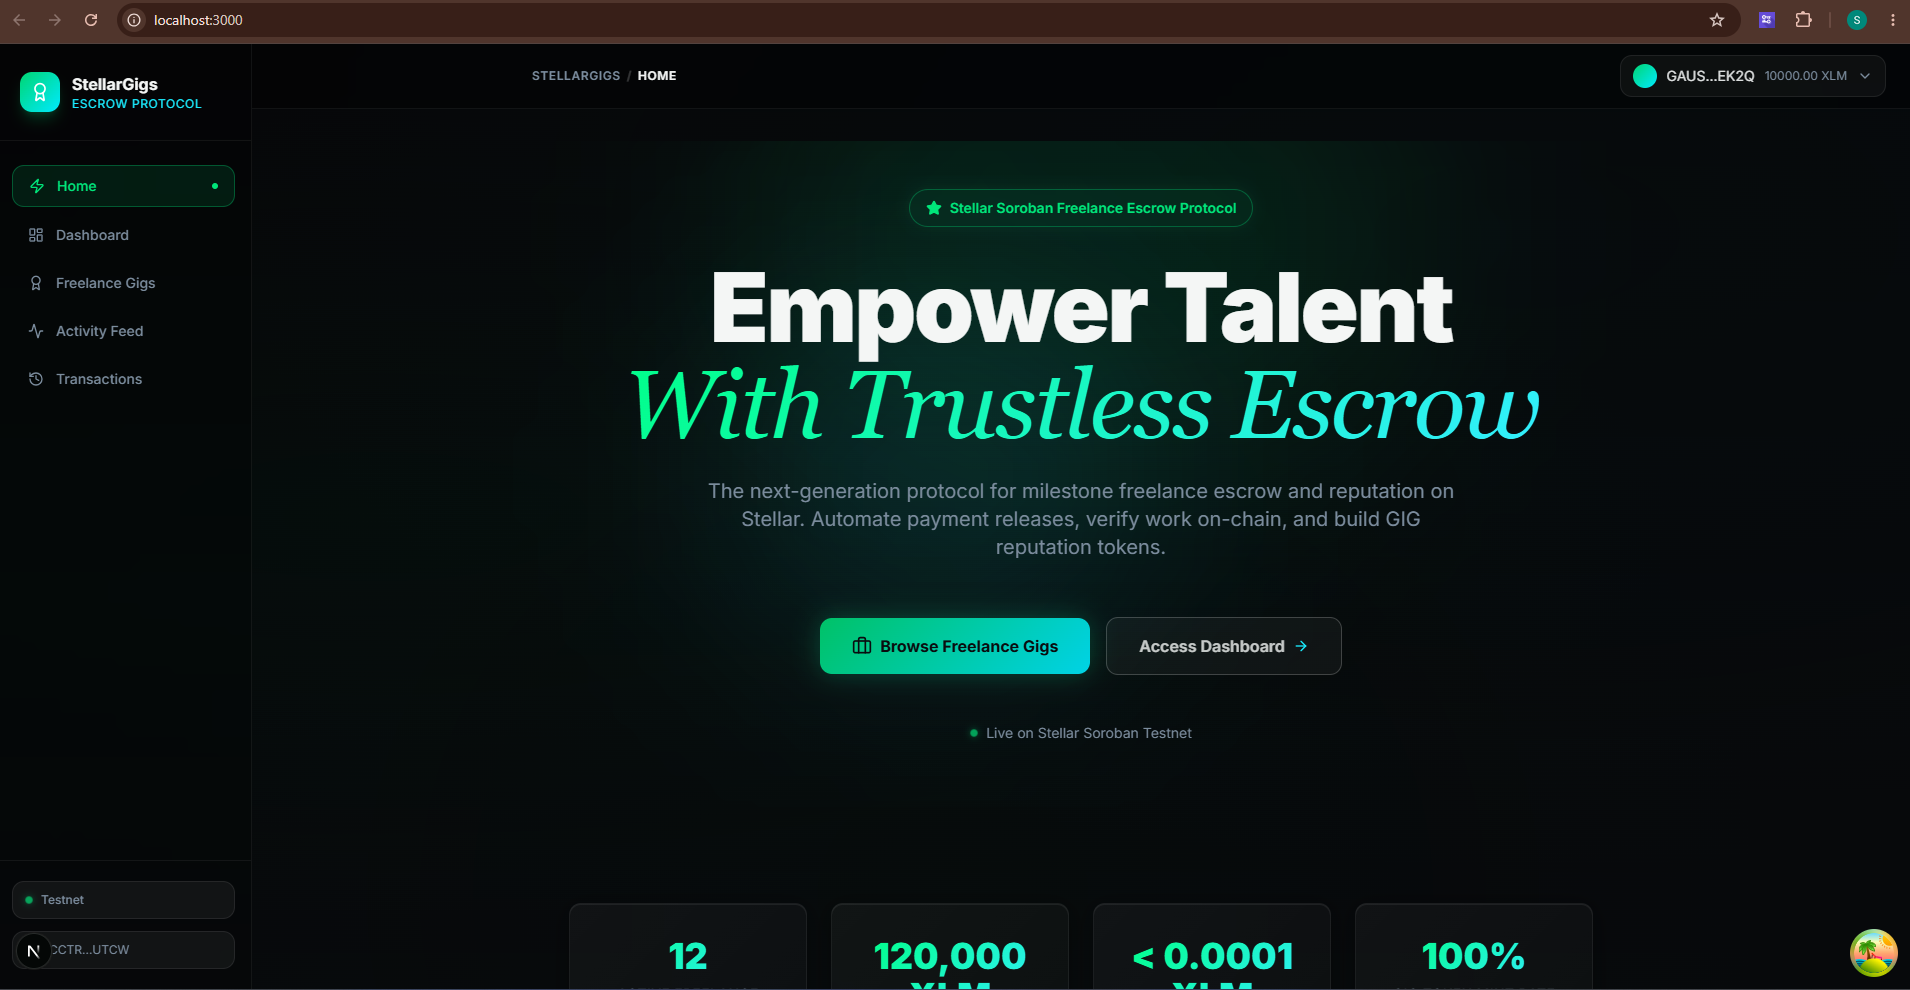
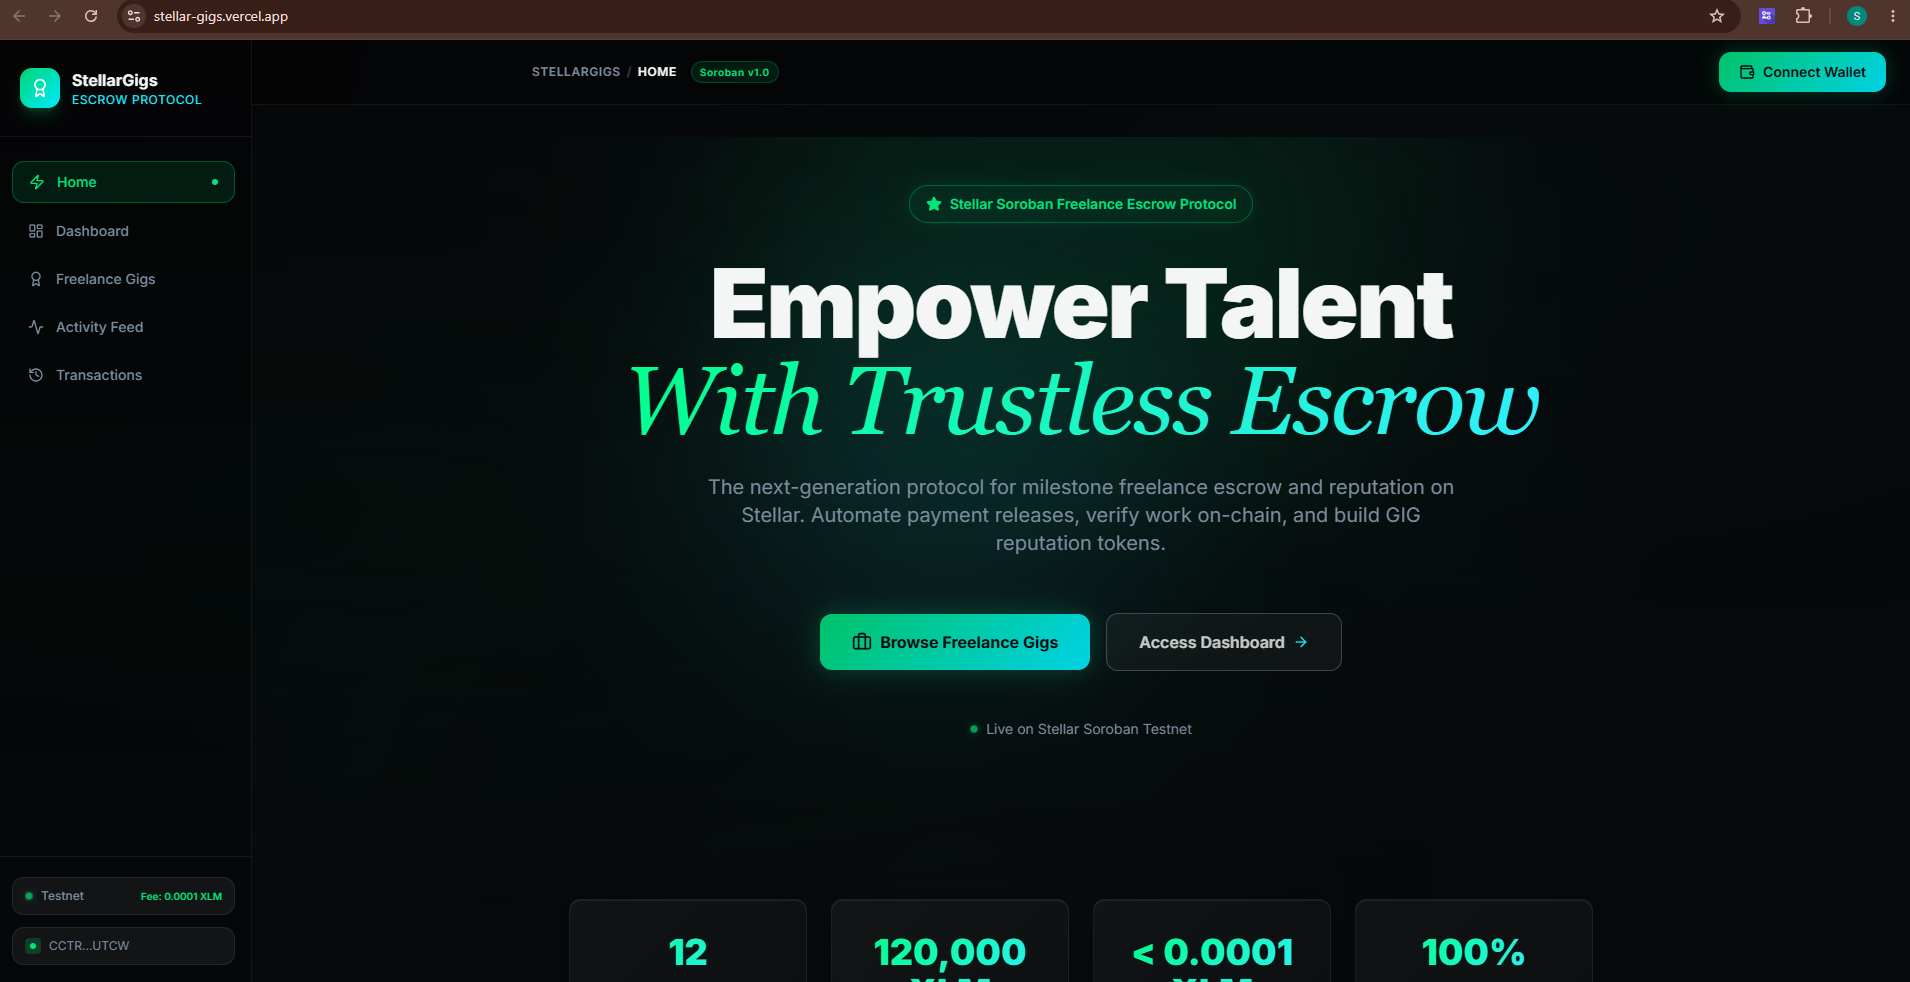
docs(readme): update README content & dashboard preview image

diff --git a/README.md b/README.md
@@ -11,7 +11,7 @@ StellarGigs is a next-generation milestone-based freelance marketplace and reput
 ## 🔗 Live Links & Demo
 
 - **Live Web Application (Vercel Deployment)**: [stellar-gigs.vercel.app](https://stellar-gigs.vercel.app)
-- **Demo Video Walkthrough**: [Watch on Google Drive](https://drive.google.com/file/d/1wkDNo_90Jb0cSxDnH_LIUDGSjtmQLqr0/view?usp=sharing)
+- **Demo Video Walkthrough**: [Watch on Google Drive](https://drive.google.com/file/d/1jUQajCnsf17KpVGi02-z6rPsS0uv6vL0/view?usp=sharing)
 
 ---
 